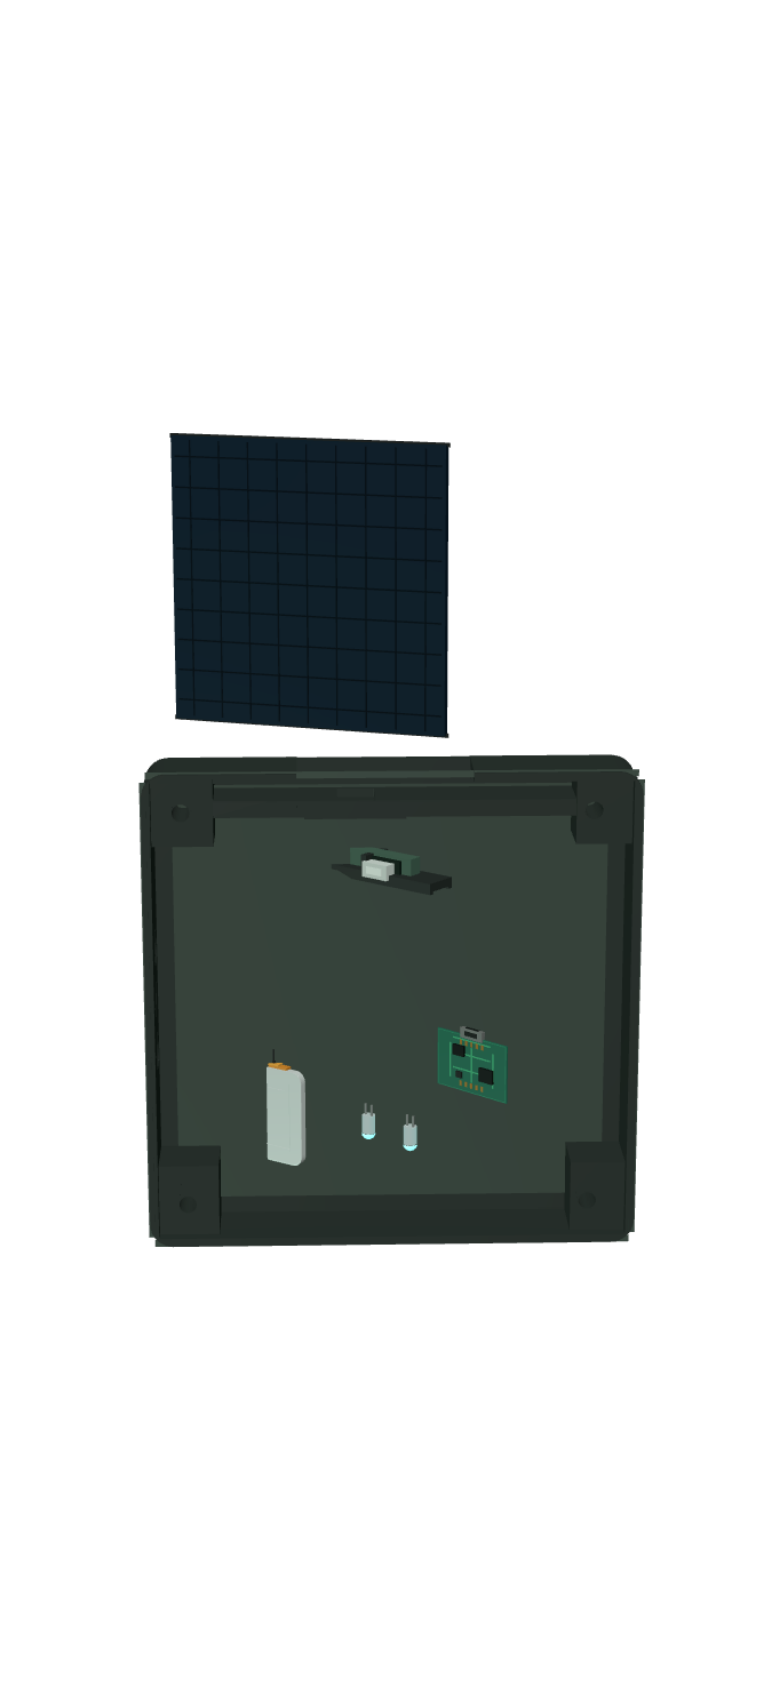
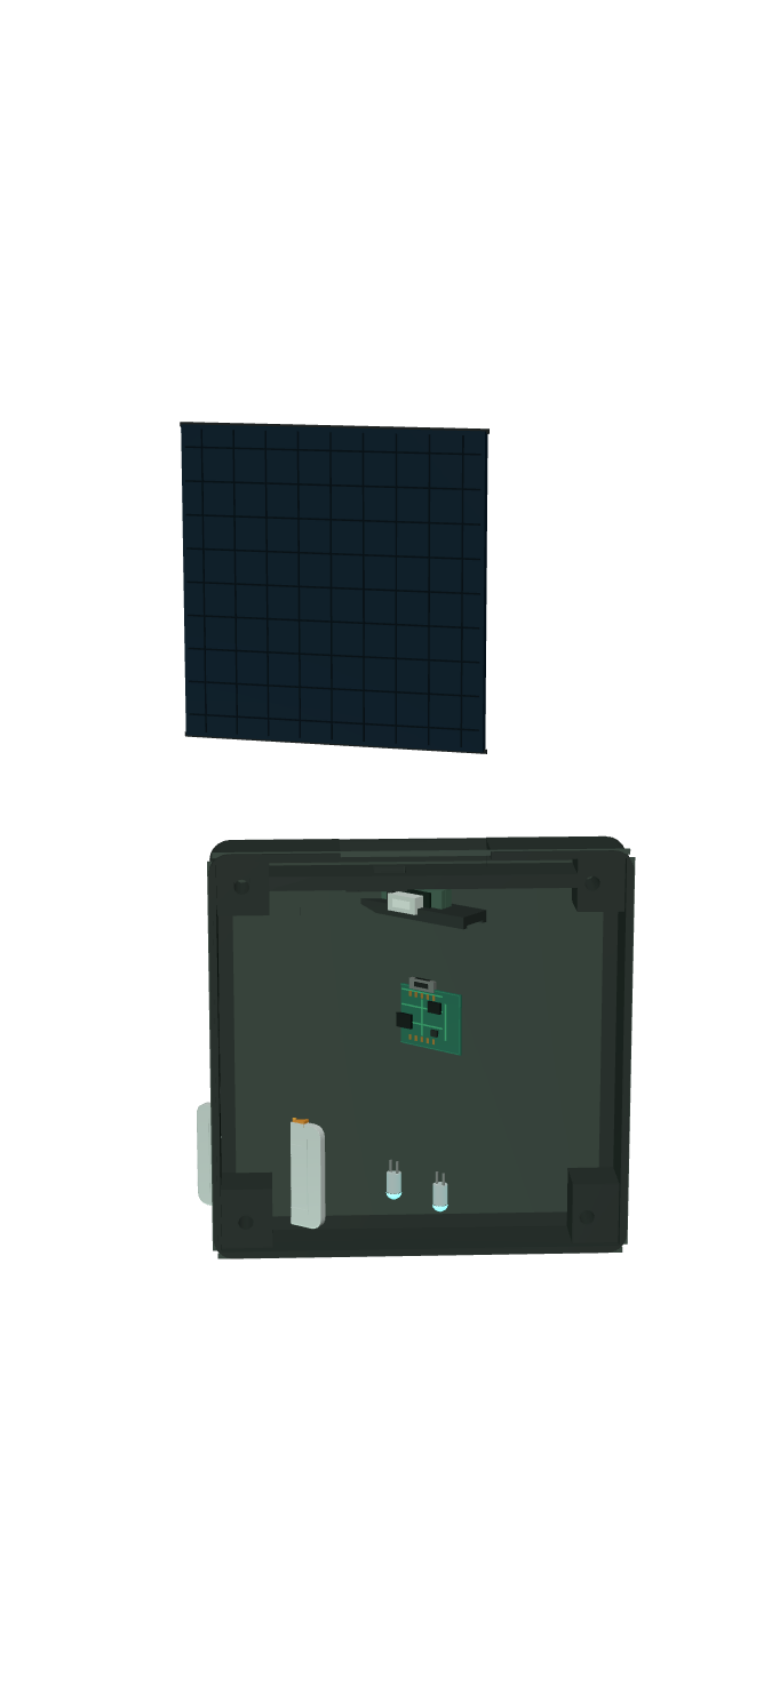
fix(assembly3d): calibrate closed hold and hero push timing

Changed region(s): [[0.1538, 0.2464, 0.8308, 0.7701], [0.4615, 0.6469, 0.4923, 0.6777]]

diff --git a/js/ff-assembly3d.js b/js/ff-assembly3d.js
@@ -23,13 +23,13 @@ const T_CH_START = 0.195;
 const CH_W = 0.093;
 // Leave a dedicated exploded-tableau beat after the final solo chapter. The
 // slightly tighter reassembly cadence keeps the finished state before p=1.
-const T_RE_START = 0.77;
-const RE_SPACING = 0.044;
-const RE_W = 0.034;
-const T_FINAL = 0.98;
+const T_RE_START = 0.76;
+const RE_SPACING = 0.035;
+const RE_W = 0.025;
+const T_FINAL = 0.925;
 const T_CLOSED_HOLD = T_FINAL;
-const T_HERO_START = 0.985;
-const T_MARKER = 0.999;
+const T_HERO_START = 0.945;
+const T_MARKER = 0.975;
 const T_COPY_CLEAR = T_CH_START + CHAPTERS.length * CH_W + 0.004;
 
 const clamp01 = (v) => Math.max(0, Math.min(1, v));
@@ -721,7 +721,7 @@ function init(section) {
         // every insertion beat, and the closed hero. This makes the base
         // genuinely stationary; the lid itself supplies the final exterior
         // read without a late enclosure rotation.
-        const closure = smooth((p - 0.962) / 0.018);
+        const closure = smooth((p - 0.91) / 0.015);
         yaw = lerp(40, 0, closure) * Math.PI / 180;
       }
       if (c.id === 'enclosure' && p >= tableauStart && p < T_RE_START) {
@@ -736,8 +736,8 @@ function init(section) {
       g.rotation.set(0, yaw, 0, 'YXZ');
       // Give the true enclosure rim/cavity enough visual weight in the
       // all-parts tableau. Solo and closed-product scales remain unchanged.
-      const tableauScale = p < T_RE_START ? 1.88 : 1.73;
-      g.scale.setScalar(c.id === 'enclosure' && p >= tableauStart && p < 0.96 ? tableauScale : 1);
+      const tableauScale = 1.35;
+      g.scale.setScalar(c.id === 'enclosure' && p >= tableauStart && p < 0.91 ? tableauScale : 1);
       // Keep every component in the scene so transitions remain scroll-linked;
       // applyDim controls the readable emphasis without a visibility snap.
       g.visible = true;
@@ -750,6 +750,21 @@ function init(section) {
   let dirty = true;
   let inView = false;
   let docHidden = document.hidden;
+
+  function authoritativeSeatedPose() {
+    if (!ready || !manifestBounds) return false;
+    return PART_IDS.every((id) => {
+      const g = groups[id];
+      if (!g) return false;
+      const m = new THREE.Matrix4().extractRotation(g.matrixWorld);
+      const posOk = g.getWorldPosition(V).distanceTo(seats[id]) < 1e-6;
+      const rotOk = Math.abs(m.elements[0] - 1) < 1e-6 && Math.abs(m.elements[5] - 1) < 1e-6 && Math.abs(m.elements[10] - 1) < 1e-6;
+      const b = new THREE.Box3().setFromObject(meshNodes[id]);
+      const eb = manifestBounds[id]?.worldBoundsMm;
+      const boundsOk = eb && b.min.distanceTo(new THREE.Vector3(...eb.lo.map((v) => v * MM))) < 1e-5 && b.max.distanceTo(new THREE.Vector3(...eb.hi.map((v) => v * MM))) < 1e-5;
+      return posOk && rotOk && boundsOk;
+    });
+  }
 
   function currentProgress() {
     const rect = section.getBoundingClientRect();
@@ -901,7 +916,7 @@ function init(section) {
       let alpha = 0;
       if (chapterIndex === i) {
         const t = chapterT(p, i);
-        alpha = i === 0 ? 1 : smooth(t / 0.18);
+        alpha = i === CHAPTERS.length - 1 && t > 0.85 ? 1 - smooth((t - 0.85) / 0.15) : (i === 0 ? 1 : smooth(t / 0.18));
       } else if (chapterIndex === i + 1) {
         const t = chapterT(p, chapterIndex);
         alpha = 1 - smooth(t / 0.18);
@@ -917,13 +932,7 @@ function init(section) {
       el.classList.toggle('is-active', alpha > 0.32);
     });
     introCopy.classList.toggle('is-hidden', p > 0.085);
-    const closedGeometry = PART_IDS.every((id) => {
-      const g = groups[id];
-      if (!g) return false;
-      const posOk = g.getWorldPosition(V).distanceTo(seats[id]) < 1e-5;
-      const m = new THREE.Matrix4().extractRotation(g.matrixWorld);
-      return posOk && Math.abs(m.elements[0] - 1) < 1e-5 && Math.abs(m.elements[5] - 1) < 1e-5 && Math.abs(m.elements[10] - 1) < 1e-5;
-    });
+    const closedGeometry = authoritativeSeatedPose();
     const markerActive = p >= T_MARKER && closedGeometry;
     finalMark.classList.toggle('is-active', markerActive);
     updateLeaders(activeKey);
@@ -1055,15 +1064,7 @@ function init(section) {
       const missing = PART_IDS.filter((id) => !groups[id]);
       if (missing.length) return false;
       applyPose(1);
-      return PART_IDS.every((id) => {
-        const m = new THREE.Matrix4().extractRotation(groups[id].matrixWorld);
-        const posOk = groups[id].getWorldPosition(V).distanceTo(seats[id]) < 1e-6;
-        const rotOk = Math.abs(m.elements[0] - 1) < 1e-6 && Math.abs(m.elements[5] - 1) < 1e-6 && Math.abs(m.elements[10] - 1) < 1e-6;
-        const b = new THREE.Box3().setFromObject(meshNodes[id]);
-        const eb = manifestBounds[id]?.worldBoundsMm;
-        const boundsOk = eb && b.min.distanceTo(new THREE.Vector3(...eb.lo.map((v) => v * MM))) < 1e-5 && b.max.distanceTo(new THREE.Vector3(...eb.hi.map((v) => v * MM))) < 1e-5;
-        return posOk && rotOk && boundsOk;
-      });
+      return authoritativeSeatedPose();
     },
     parts: () => Object.keys(groups),
   };
